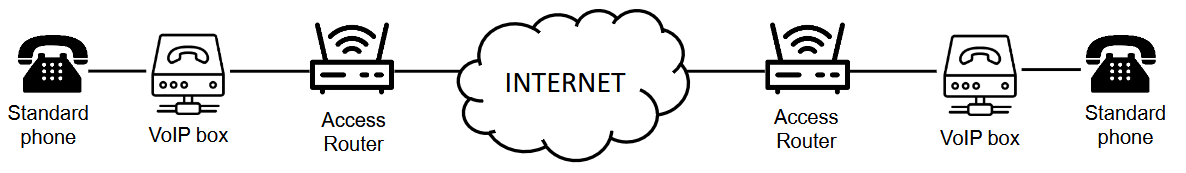
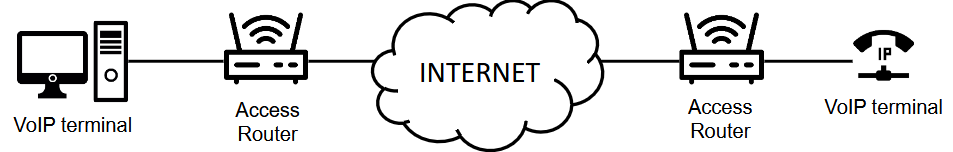
Voip image error fix

Changed region(s): [[0.0, 0.0, 1.0, 1.0], [0.2434, 0.6579, 0.3347, 0.9474], [0.0, 0.7368, 0.213, 0.8684]]

diff --git a/src/content/docs/sistemi-e-servizi-di-telecomunicazione/teoria/13-voice-over-ip.md b/src/content/docs/sistemi-e-servizi-di-telecomunicazione/teoria/13-voice-over-ip.md
@@ -32,13 +32,14 @@ Esistono diversi tipi di chiamate:
 
 Comunicazione tra terminali VoIP, di tipo **VoIP puro**. Mette in comunicazione terminali che supportano nativamente VoIP, come telefoni o computer con client VoIP.
 
+![](image.png)
 ![](../../../../assets/sistemi-e-servizi-di-telecomunicazione/voip-voip-pure.png)
 
 La cosa importante è che in questo caso i terminali VoIP prendono la voce e la **pacchettizzano**, ovvero la trasformano in pacchetti IP che contengono la voce codificata, **bypassando** completamente la rete telefonica standard.
 
 ### VoIP-VoIP - Adapted Terminals
 
-Si ha un nodo funzionale di nome **VoIP box** che prende la voce, la digitalizza e la pacchettizza, per poi inviarla in Internet. Solitamente si trova all'interno del router.
+Comunicazione tra terminali usati nella PSTN, adattati per supportare VoIP. Si ha un nodo funzionale di nome **VoIP box** che prende la voce, la digitalizza e la pacchettizza, per poi inviarla in Internet. Solitamente si trova all'interno del router.
 
 Nelle tratte tra Standard Phone e VoIP box si ha una comunicazione **analogica**, il resto è tutto digitale.
 
